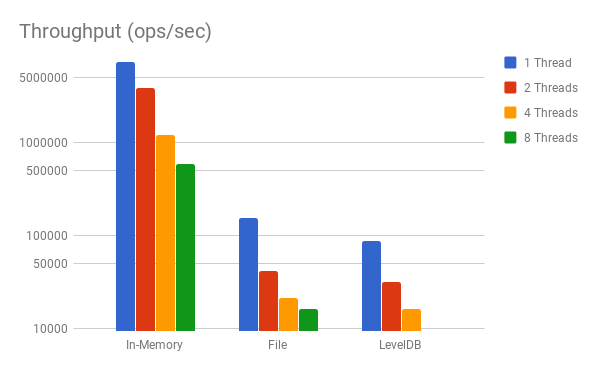
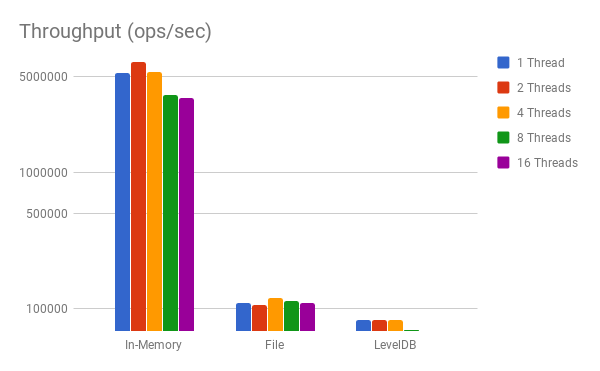
syncwrite update

diff --git a/_posts/2018-02-13-sync-write-throughput.md b/_posts/2018-02-13-sync-write-throughput.md
@@ -5,7 +5,15 @@ date:   2018-02-13 07:10:06 -0500
 categories: observations
 ---
 
-This post details as yet unexplained observations about synchronization to a single writer in Go &mdash; namely as the number of threads increases the throughput of writes decreases. There seems to be some lock contention issues, or potentially I'm simply computing throughput incorrectly. As I'm investigating, I've put up a simple library called [syncwrite](https://github.com/bbengfort/syncwrite) to benchmark this code.
+This post serves as a reminder of how to perform benchmarks when accounting for synchronized writing in Go. The normal benchmarking process involves running a command a large number of times and determining the average amount of time that operation took. When threads come into play, we consider _throughput_ - that is the number of operations that can be conducted per second. However, in order to successfully measure this without duplicating time, the throughput must be measured from the server's perspective.
+
+![Time in Multiple Threads]({{site.base_url }}/assets/images/2018-02-13-syncwrite-overlapping.png)
+
+Let `w` be the amount of time a single operation takes and `n` be the number of operations per thread. Given `t` threads, the cost for each operation from the perspective of the client thread will be `t*w` because the server is synchronizing writes as shown in the figure above, e.g. the thread has to wait for `t-1` other writes to complete before conducting it's write. This means that each thread returns a latency of `n*t*w` from it's perspective. If this is aggregated, the total time is computed `n*w*t^2`, even though the real time that has passed is actually `n*t*w` as shown in the single threaded case.
+
+For normal server-client throughput we measure the start time of the first access on the server end and the end time of the last access and the duration as the difference between these two timestamps. We then compute the number of operations conducted in that time to measure throughput. This only works if the server is pegged, e.g. it is not waiting for requests.
+
+However, for synchronization we can't measure at the server since we're trying to determine the cost of locks and scheduling. We've used an external benchmarking procedure that may underestimate throughput but allows us to measure from the client-side rather than at the server. I've put up a simple library called [syncwrite](https://github.com/bbengfort/syncwrite) to benchmark this code.
 
 Here is the use case: consider a system that has multiple goroutines, each of which want to append to a log file on disk. The append-only log determines the sequence or ordering of events in the system, so appends must be atomic and reads to an index in the log, idempotent. The interface of the Log is as follows:
 
@@ -31,27 +39,24 @@ In the future (probably in the next post), I will also implement an `AsyncLog` t
 The benchmarks are associated with an _action_, which can be one or more operations to disk. In this benchmark we simply evaluate an action that calls the `Write` method of a log with `"foo"` as the value. Per-action benchmarks are computed using `go-bench`, which computes the average time it takes to run the action once:
 
 ```
-BenchmarkInMemoryLog-8   	10000000	       201 ns/op
-BenchmarkFileLog-8       	  200000	      7253 ns/op
-BenchmarkLevelDBLog-8    	  100000	     12104 ns/op
+BenchmarkInMemoryLog-8   	10000000	       210 ns/op
+BenchmarkFileLog-8       	  200000	      7456 ns/op
+BenchmarkLevelDBLog-8    	  100000	     12379 ns/op
 ```
 
-Writing to the in-memory log is by far the fastest, while writing to the LevelDB log is by far the slowest operation. We expect _throughput_, that is the number of operations per second, to be equivalent with these per-action benchmarks in a single thread. The question is how throughput changes with more threads.
+Writing to the in-memory log is by far the fastest, while writing to the LevelDB log is by far the slowest operation. We expect _throughput_, that is the number of operations per second, to be equivalent with these per-action benchmarks in a single thread. The theoretical throughput is simply `1/w*1e-9` (converting nanoseconds to seconds). The question is how throughput changes with more threads and in a real workload.
 
-Throughput benchmarks are conducted by running `t` threads, each of which run `n` actions and returns the amount of time it takes to run all `n` actions. The total number of operations performed is `n*t` and this is divided by the total number of seconds across all go routines to get the number of operations per second. We observed the following decreasing throughput as the number of threads increased:
+Throughput benchmarks are conducted by running `t` threads, each of which run `n` actions and returns the amount of time it takes _all threads_ to run `n*t` actions. As the `t` increases, the workload stays static, e.g. `n` becomes smaller to keep `n*t` constant. The throughput is the number of operations divided by the duration in seconds.
 
 ![Sync Write Throughput with Increasing # of Threads]({{site.base_url }}/assets/images/2018-02-13-sync-write-throughput.png)
 
-Note that the y-axis is on a logarithm scale, so the seemingly linear decrease in the chart actually exposes an exponential decrease. The raw numbers are as follows:
+Note that the y-axis is on a logarithm scale, and because of the magnitude of in-memory writes, the chart is a bit difficult to read. Therefore the next chart shows the percentage of the theoretical throughput (as computed by `w`) the real system achieves:
 
-|           |     1 Threads |     2 Threads |     4 Threads |   8 Threads |
-|-----------|--------------:|--------------:|--------------:|------------:|
-| In-Memory | 7,183,448.018 | 3,779,715.176 | 1,204,300.998 | 583,877.489 |
-| File      |   154,304.171 |    41,878.633 |    21,346.001 |  16,061.860 |
-| LevelDB   |    87,358.272 |    31,241.465 |    16,052.638 |   9,298.797 |
+![Percentage of Theoretical]({{site.base_url }}assets/images/2018-02-03-percent-theoretical.png)
+
 
 ## Observations
 
-As the number of threads increases there seems to be increased contention for the locks on the Log, but I'm unsure why this is causing a massive slowdown. Potentially there is a scheduling issue with the processor, such that the threads and the main process that is locking are contending for system resources. Another consideration is that perhaps the garbage collector is getting overwhelmed by so many threads generating data. Finally, it could simply be that my throughput computation is incorrect.
+Looking at the percent theoretical chart, I believe the reason that both In-Memory and LevelDB achieve >100% for up to 4 threads is because the benchmark that computes `w` has such a high variability; though this does not explain why the File log has dramatically lower throughput.
 
-While I would expect that the throughput decreases as the number of threads increases, I wouldn't expect it to decrease quite so much. Because this type of data structure is routinely part of the applications I create (e.g. a server process that respond to multiple clients in different threads and writes to a central store in a safe manner), it is important to solve this issue. 
+Because the benchmarks were run on a 4 core machine, up to 4 threads for In-Memory and LevelDB can operate without a noticeable decrease in throughput since there is no scheduling issue. However, at 8 threads and above, there is a noticeable drop in the percent of theoretical throughput, probably due to synchronization or scheduling issues. This same drop does not occur in the File log because it was already below it's theoretical maximum throughput.
